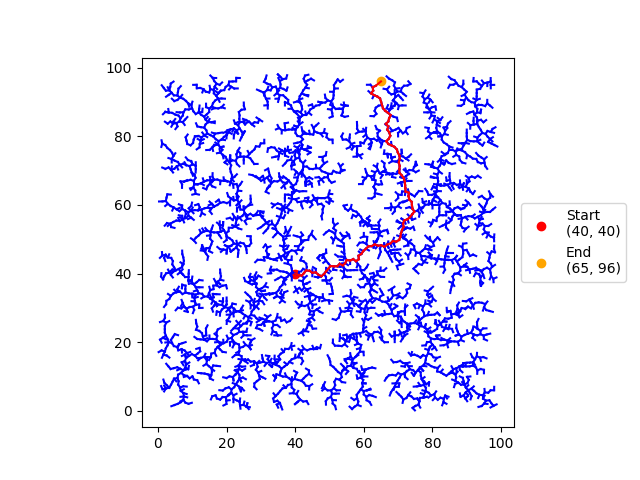
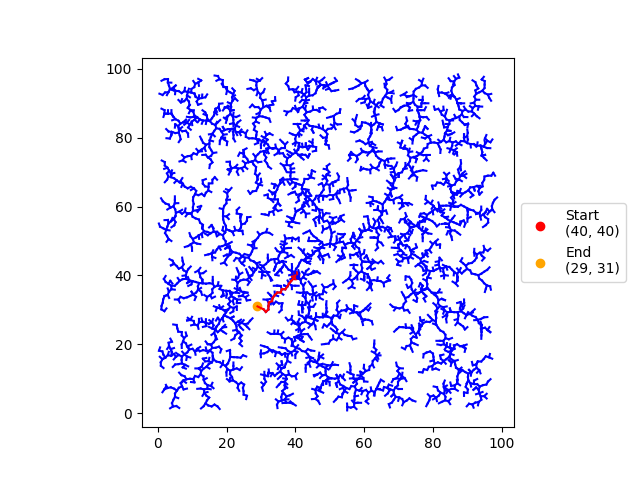
Add 3D algorithm!

diff --git a/RRT_2D.py b/RRT_2D.py
@@ -48,22 +48,26 @@ class Circle:
         return (distance(self.c, point) <= self.r)
 
 class RRT:
-    def __init__(self, qinit, k, delta, d, circles=False, img=False, verbose=False):
+    def __init__(self, qinit, k, delta, d, circles=False, img=False, dim=2, verbose=False):
+        # starting position
         self.qinit = qinit
+        # number of steps
         self.k = k
+        # step size
         self.delta = delta
+        # domain of graph
         self.d = d
+        # print out extra info
         self.verbose = verbose
-
+        # keep track of the graph structure of connected nodes
         self.g = Node(qinit,parent=None)
-        self.g.pr()
 
-        self.circles = []
-        self.doCircles = False
+        # plotting 
         fig, ax = plt.subplots()
         self.fig = fig
         self.ax = ax
 
+        # set a random goal position that is at least 10 units away from the start
         dst = 0 
         goalx = -1
         goaly = -1
@@ -72,16 +76,15 @@ class RRT:
             goaly = random.randrange(self.d[1][0], self.d[1][1])
             self.goal = (goalx, goaly)
             dst = distance(self.goal, self.qinit)
+        # buffer for reaching goal
         self.buff = 2*self.delta
 
+        # CIRCULAR OBSTACLES
+        self.doCircles = circles
+        self.circles = []
         self.maxCircleRad = 15
         self.nCircles = 10
-
-        self.doImage = False
-        self.imgMap = []
-
-        if circles: 
-            self.doCircles = True
+        if self.doCircles:
             print("Running with circles!")
             for n in range(0, self.nCircles): 
                 x = random.randrange(self.d[0][0], self.d[0][1])
@@ -95,27 +98,28 @@ class RRT:
                     self.circles.append(c)
                     circle = plt.Circle(c.c, c.r, color='k')
                     self.ax.add_patch(circle)
-        if img: 
-            self.doImage = True
+
+        # SET UP IMAGE
+        self.doImage = img
+        self.imgMap = []
+        if self.doImage:
             image = imageio.imread('N_map.png')
             if len(image.shape) > 2:
                 # make pixels black/white
                 image = image[:,:,:1]
                 image = image.reshape([image.shape[0], image.shape[1]])
+            # goal is hardcoded in this case
             self.goal = (60, 60) 
             image = np.flipud(image)
-            ax.imshow(image, cmap="gray", origin='lower')
+            self.ax.imshow(image, cmap="gray", origin='lower')
             self.imgMap = image
-
-        # Plot the starting point and goal  
         self.ax.set_aspect('equal')
         
     def random_configuration(self):
         #Generate random position in the domain
         x = random.randrange(self.d[0][0], self.d[0][1])
         y = random.randrange(self.d[1][0], self.d[1][1])
-        if self.verbose:
-            print("Random:", x,y)
+        if self.verbose: print("Random:", x,y)
         return (x,y)
     
     def nearest_vertex(self, nd, pos):
@@ -138,8 +142,7 @@ class RRT:
         ## CHECK DIV BY 0
         # generate new tree config by moving delta from one vertex to another
         if qdx == qsx:
-            if self.verbose:
-                print("SLOPE 0 returning")
+            if self.verbose: print("SLOPE IS 0")
             return None
         theta = np.arctan((qdy - qsy)/(qdx - qsx))
         y = self.delta * np.sin(theta)
@@ -150,15 +153,12 @@ class RRT:
         else: 
             new_x = qsx + x
             new_y = qsy + y
-        if self.verbose:
-            print('New candidate point:', new_x, new_y)
+        if self.verbose: print('New candidate point:', new_x, new_y)
         if not ((self.d[0][0] < new_x < self.d[0][1]) and (self.d[1][0] < new_y < self.d[1][1])):
-            if self.verbose:
-                print("OUT OF BOUDNS")
+            if self.verbose: print("OUT OF BOUDNS")
             return None
         if (new_x == qsx or new_y == qsy): 
-            if self.verbose:
-                print("dont want to deal with this case")
+            if self.verbose: print("dont want to deal with this case")
             return None
         slope = (new_y - qsy) / (new_x - qsx)
         b = new_y - slope*new_x
@@ -170,15 +170,13 @@ class RRT:
                 y_int = tan_slope*x_int+tan_b
                 if distance((new_x, new_y), c.c) < c.r:
                     # The new point is inside of the circle (bad)
-                    if self.verbose:
-                        print("New point intersects!")
+                    if self.verbose: print("New point intersects!")
                     return None
                 if distance((x_int, y_int), c.c) < c.r: 
                     # Intersection point is less than radius
                     if inBetween((qsx, qsy), (new_x, new_y), (x_int, y_int)):
                         # Intersection point is on the line segment
-                        if self.verbose:
-                            print("Line intersects!")
+                        if self.verbose: print("Line intersects!")
                         return None
         if self.doImage: 
             # very naive approach
@@ -328,11 +326,12 @@ class RRT:
         if self.verbose: print("GO")
         for i in range(0, self.k):
             if self.verbose: print(f'\n')
-            if (i % 100 == 0):print(f'{i}/{self.k}')
+            if (i % 1000 == 0):print(f'{i}/{self.k}')
             qrand = self.random_configuration()
             qnear_dist, qnear = self.nearest_vertex(self.g, qrand)
             qnew = self.new_configuration(qnear, qrand)
             if qnew is not None: 
+                print(f"Finished after {i} iterations!")
                 self.drawPath(qnew, self.goal)
                 break
 
@@ -352,7 +351,8 @@ def main():
                         help="Which task of the RRT to implement.\n \
                               1: basic functionality\n \
                               2: RRT with circles\n \
-                              3: RRT on image\n")
+                              3: RRT on image\n\
+                              4: 3D RRT")
     parser.add_argument('-v', '--verbose', action='store_true', help='Print out debug messages')
     args = parser.parse_args()
 

diff --git a/RRT_3D.py b/RRT_3D.py
@@ -1,0 +1,162 @@
+import numpy as np
+import matplotlib.pyplot as plt
+import random
+import imageio.v2 as imageio
+import math
+import argparse
+
+def distance(p1, p2):
+    return np.linalg.norm(np.array(p2)-np.array(p1))
+
+class Node:
+    def __init__(self,val,parent):
+        self.parent = parent
+        self.val = val
+        self.children = []
+    def add_child(self, c):
+        self.children.append(c)
+    def pr(self,lvl=0):
+        if len(self.children)==0:
+            print(f"Val {lvl}:{self.val}")
+        else: 
+            for c in self.children: 
+                c.pr(lvl=lvl+1)
+
+class RRT:
+    def __init__(self, qinit, k, delta, d, verbose=False):
+        # starting position
+        self.qinit = qinit
+        # number of steps
+        self.k = k
+        # step size
+        self.delta = delta
+        # domain of graph
+        self.d = d
+        # print out extra info
+        self.verbose = verbose
+        # keep track of the graph structure of connected nodes
+        self.g = Node(qinit,parent=None)
+
+        # plotting 
+        fig = plt.figure()
+        ax = fig.add_subplot(111, projection='3d')
+        ax.axes.set_xlim3d(left=self.d[0][0], right=self.d[0][1]) 
+        ax.axes.set_ylim3d(bottom=self.d[1][0], top=self.d[1][1]) 
+        ax.axes.set_zlim3d(bottom=self.d[2][0], top=self.d[2][1]) 
+        self.fig = fig
+        self.ax = ax
+
+        # set a random goal position that is at least 10 units away from the start
+        dst = 0 
+        goalx = -1
+        goaly = -1
+        goalz = -1
+        while dst < 10: 
+            goalx = random.randrange(self.d[0][0], self.d[0][1])
+            goaly = random.randrange(self.d[1][0], self.d[1][1])
+            goalz = random.randrange(self.d[2][0], self.d[2][1])
+            self.goal = (goalx, goaly,goalz)
+            dst = distance(self.goal, self.qinit)
+        # buffer for reaching goal
+        self.buff = 2*self.delta
+        
+    def random_configuration(self):
+        #Generate random position in the domain
+        x = random.randrange(self.d[0][0], self.d[0][1])
+        y = random.randrange(self.d[1][0], self.d[1][1])
+        z = random.randrange(self.d[2][0], self.d[2][1])
+        if self.verbose: print("Random:", x,y,z)
+        return (x,y,z)
+    
+    def nearest_vertex(self, nd, pos):
+        # find the vertex in g closest to given pos
+        closest_node = nd
+        closest_dist = distance(closest_node.val, pos)
+        for n in closest_node.children: 
+            subtree_dist, subtree_node = self.nearest_vertex(n, pos)
+            if subtree_dist < closest_dist: 
+                closest_dist = subtree_dist
+                closest_node = subtree_node
+        return closest_dist, closest_node
+            
+        
+    def new_configuration(self, q_start, q_direction):
+        qs_array = np.array(q_start.val)
+        qd_array = np.array(q_direction)
+        # generate new tree config by moving delta from one vertex to another
+        vector = qd_array - qs_array
+        unit_vector = vector / np.linalg.norm(vector)
+        new_point = qs_array + unit_vector
+        new_x = new_point[0]
+        new_y = new_point[1]
+        new_z = new_point[2]
+        if self.verbose: print(f'New candidate point:{new_x},{new_y},{new_z}')
+        if not ((self.d[0][0] < new_x < self.d[0][1]) and 
+                (self.d[1][0] < new_y < self.d[1][1]) and 
+                (self.d[2][0] < new_y < self.d[2][1])):
+            if self.verbose: print("OUT OF BOUNDS")
+            return None
+        if self.verbose: print("drawing line")
+        self.ax.plot([q_start.val[0], new_x], [q_start.val[1], new_y], zs=[q_start.val[2],new_z], color='b')
+        new_node = Node(val=(new_x, new_y, new_z), parent=q_start)
+        q_start.add_child(new_node)
+        if distance((new_x, new_y, new_z), self.goal) < self.buff: 
+            print("Goal Reached!!")
+            return new_node
+        else: 
+            return None
+    
+    def drawPath(self, node, co): 
+        current = node.val
+        self.ax.plot([co[0], current[0]], [co[1], current[1]], zs=[co[2], current[2]], color='r')
+        if node.parent is not None: 
+            self.drawPath(node.parent, current)
+    
+    def go(self):
+        # Run RRT
+        if self.verbose: print("GO")
+        for i in range(0, self.k):
+            if self.verbose: print(f'\n')
+            if (i % 1000 == 0):print(f'{i}/{self.k}')
+            qrand = self.random_configuration()
+            qnear_dist, qnear = self.nearest_vertex(self.g, qrand)
+            qnew = self.new_configuration(qnear, qrand)
+            if qnew is not None: 
+                print(f"Finished after {i} iterations!")
+                self.drawPath(qnew, self.goal)
+                break
+
+        self.ax.scatter(self.qinit[0], self.qinit[1], self.qinit[2],
+                        color='r',
+                        label=f'Start\n{self.qinit}')
+        self.ax.scatter(self.goal[0], self.goal[1], self.goal[2],
+                        color='orange',
+                        label=f'End\n{self.goal}')
+
+        plt.legend(loc='upper left', bbox_to_anchor=(-0.35, 0.5))
+        
+
+def main():
+    parser = argparse.ArgumentParser(
+                    prog='RRT',
+                    description='Implements a 3D RRT path planning algorithm')
+    parser.add_argument('-v', '--verbose', action='store_true', help='Print out debug messages')
+    args = parser.parse_args()
+
+    # some parameters of the RRT
+    # domain of the graph: 50x50x50
+    d = [(0,50),(0,50),(0,50)]
+    # starting position
+    qinit = (10,10,10)
+    # increment distance
+    delta = 2
+    # number of iterations
+    k = 10000
+
+    Task1 = RRT(qinit, k, delta, d, verbose=args.verbose)
+    Task1.go()
+    plt.savefig('images/3d.png')
+    plt.show()
+
+if __name__ == "__main__":
+    main()

diff --git a/README.md b/README.md
@@ -1,11 +1,12 @@
 # Rapidly Exploring Random Tree (RRT)
 Author: Katie Hughes
 
-This implements a RRT algorithm in 2D space. 
+This repo implements a RRT in 2 and 3 dimensional space.
 
-To run the algorithm:
+## 2D algorithm
+To run:
 
-`python3 trees.py -t [task number]`
+`python3 RRT_2D.py -t [task number]`
 
 Tasks:
 1. RRT with no obstacles
@@ -22,3 +23,12 @@ Tasks:
 
 
 Additionally, you can pass the `-v` flag to print out more information about what is happening during each iteration of the algorithm.
+
+## 3D algorithm
+
+To run:
+
+`python3 RRT_3D.py`
+![3D](images/3d.png)
+
+The `-v` flag is also an option here!
